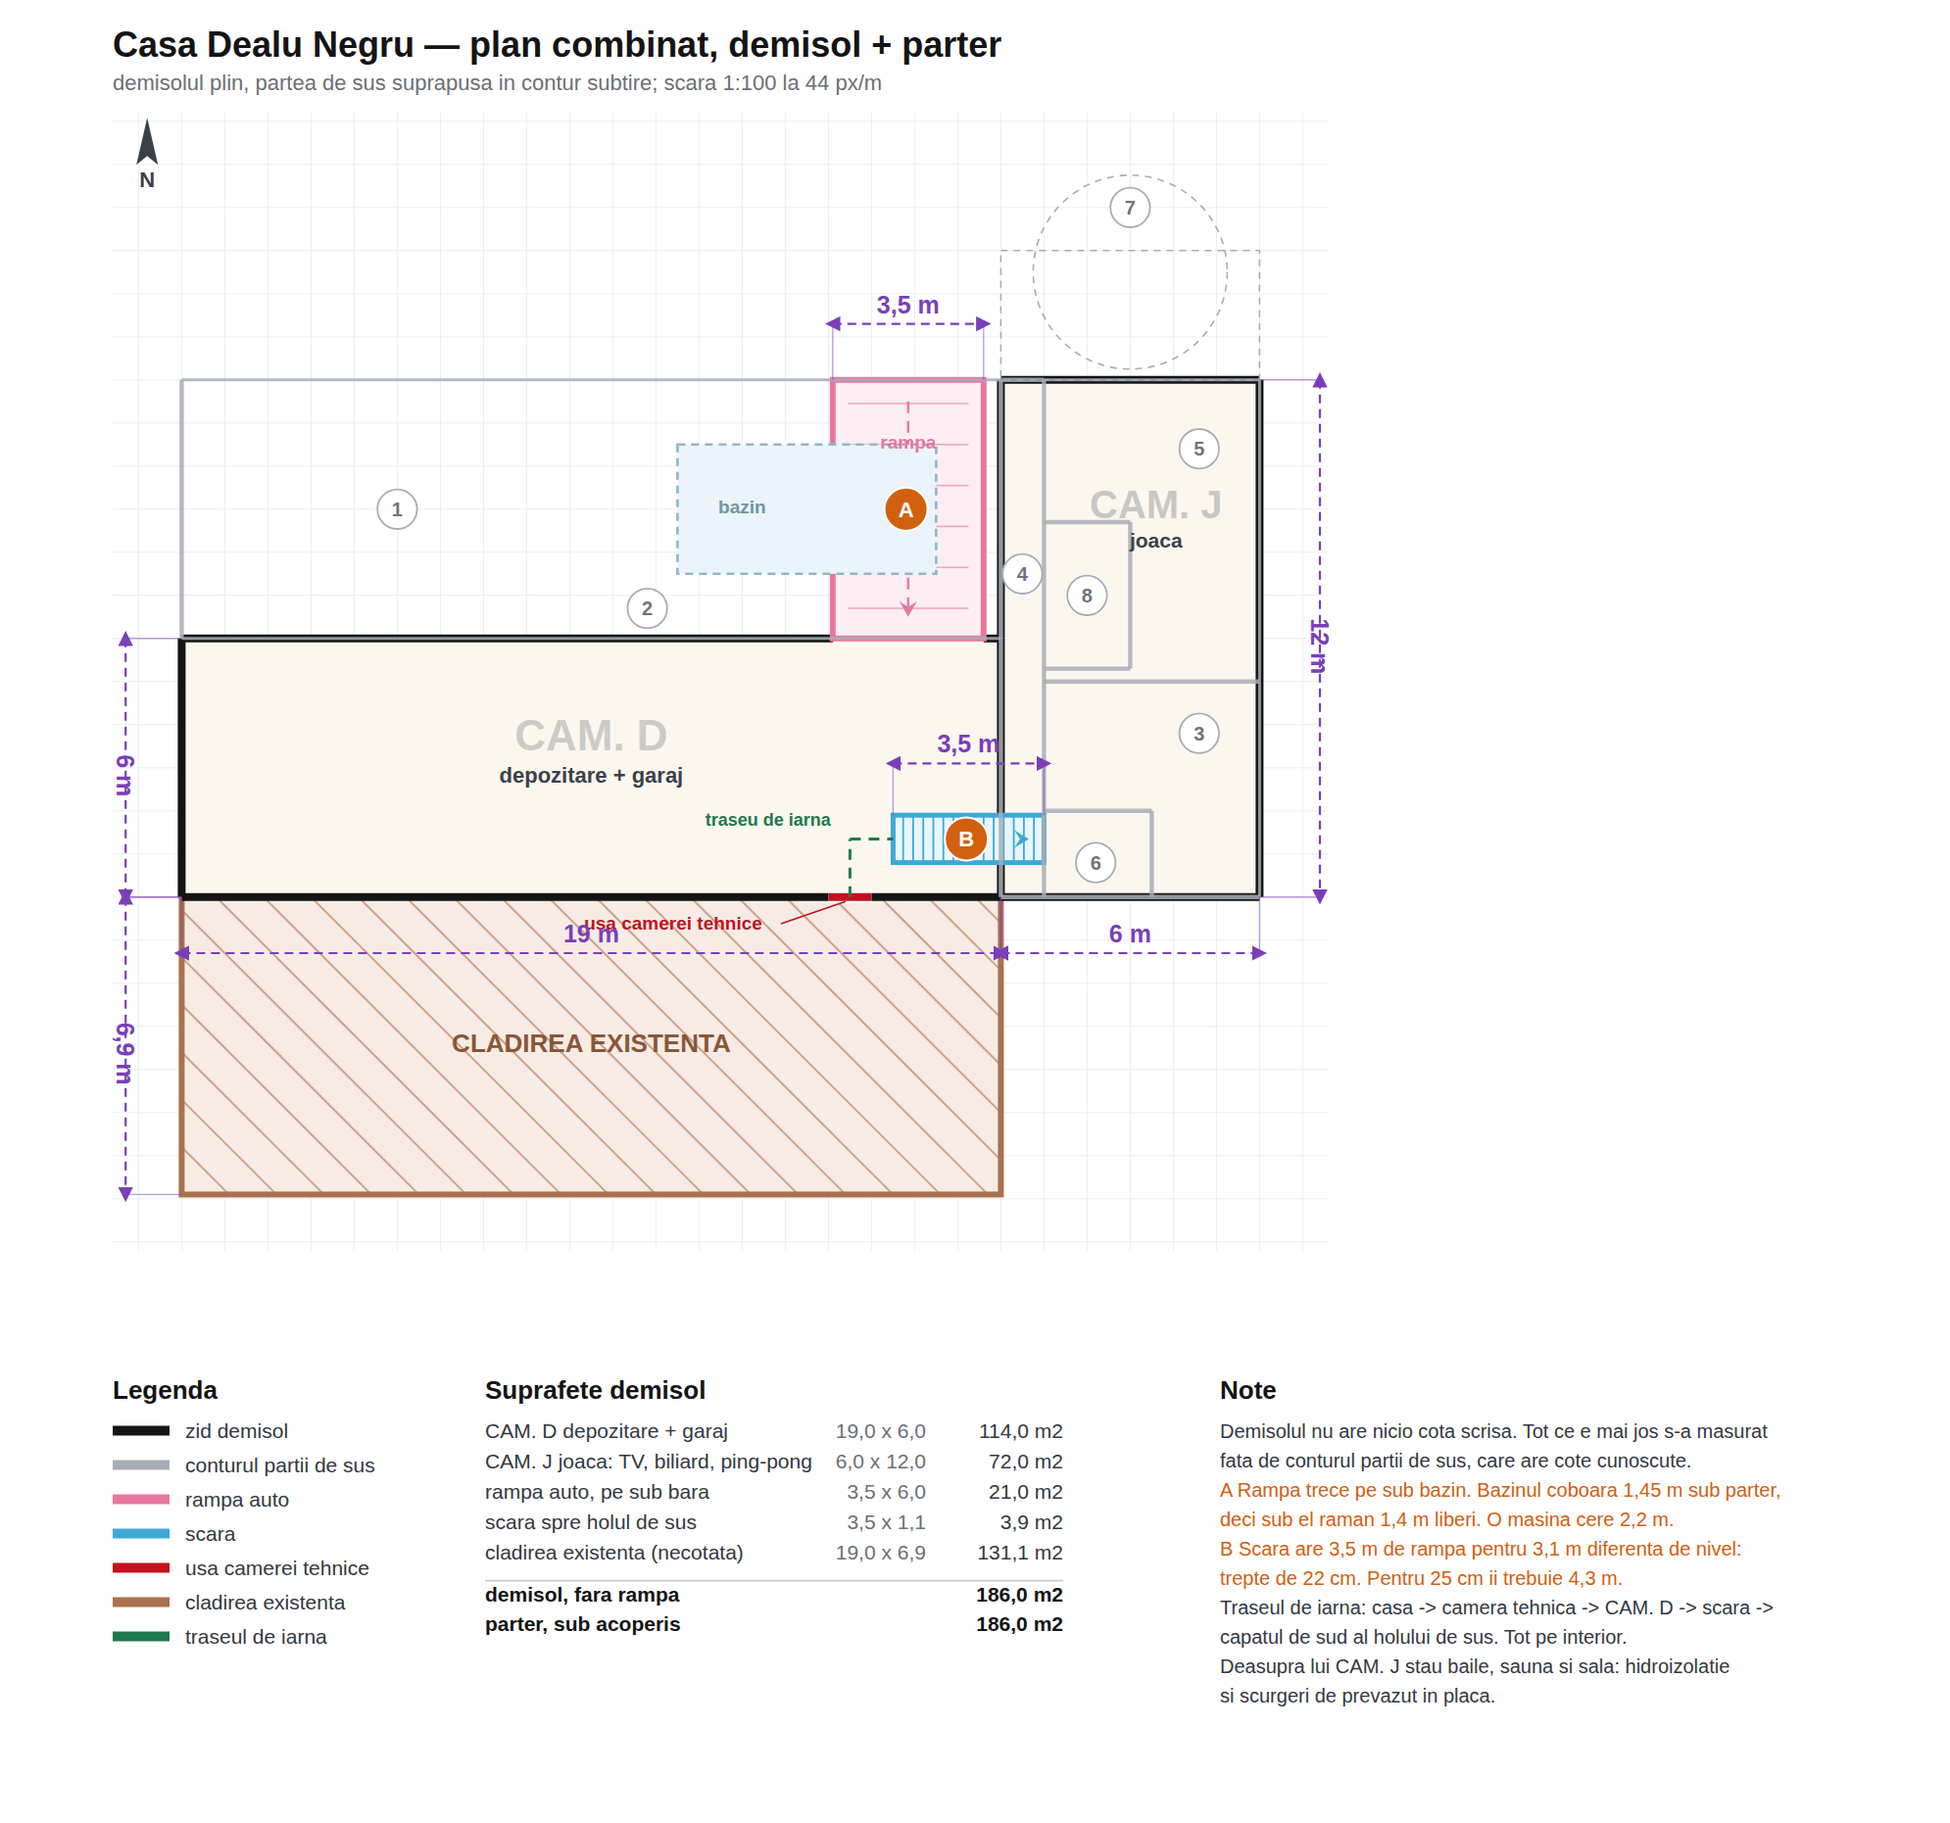
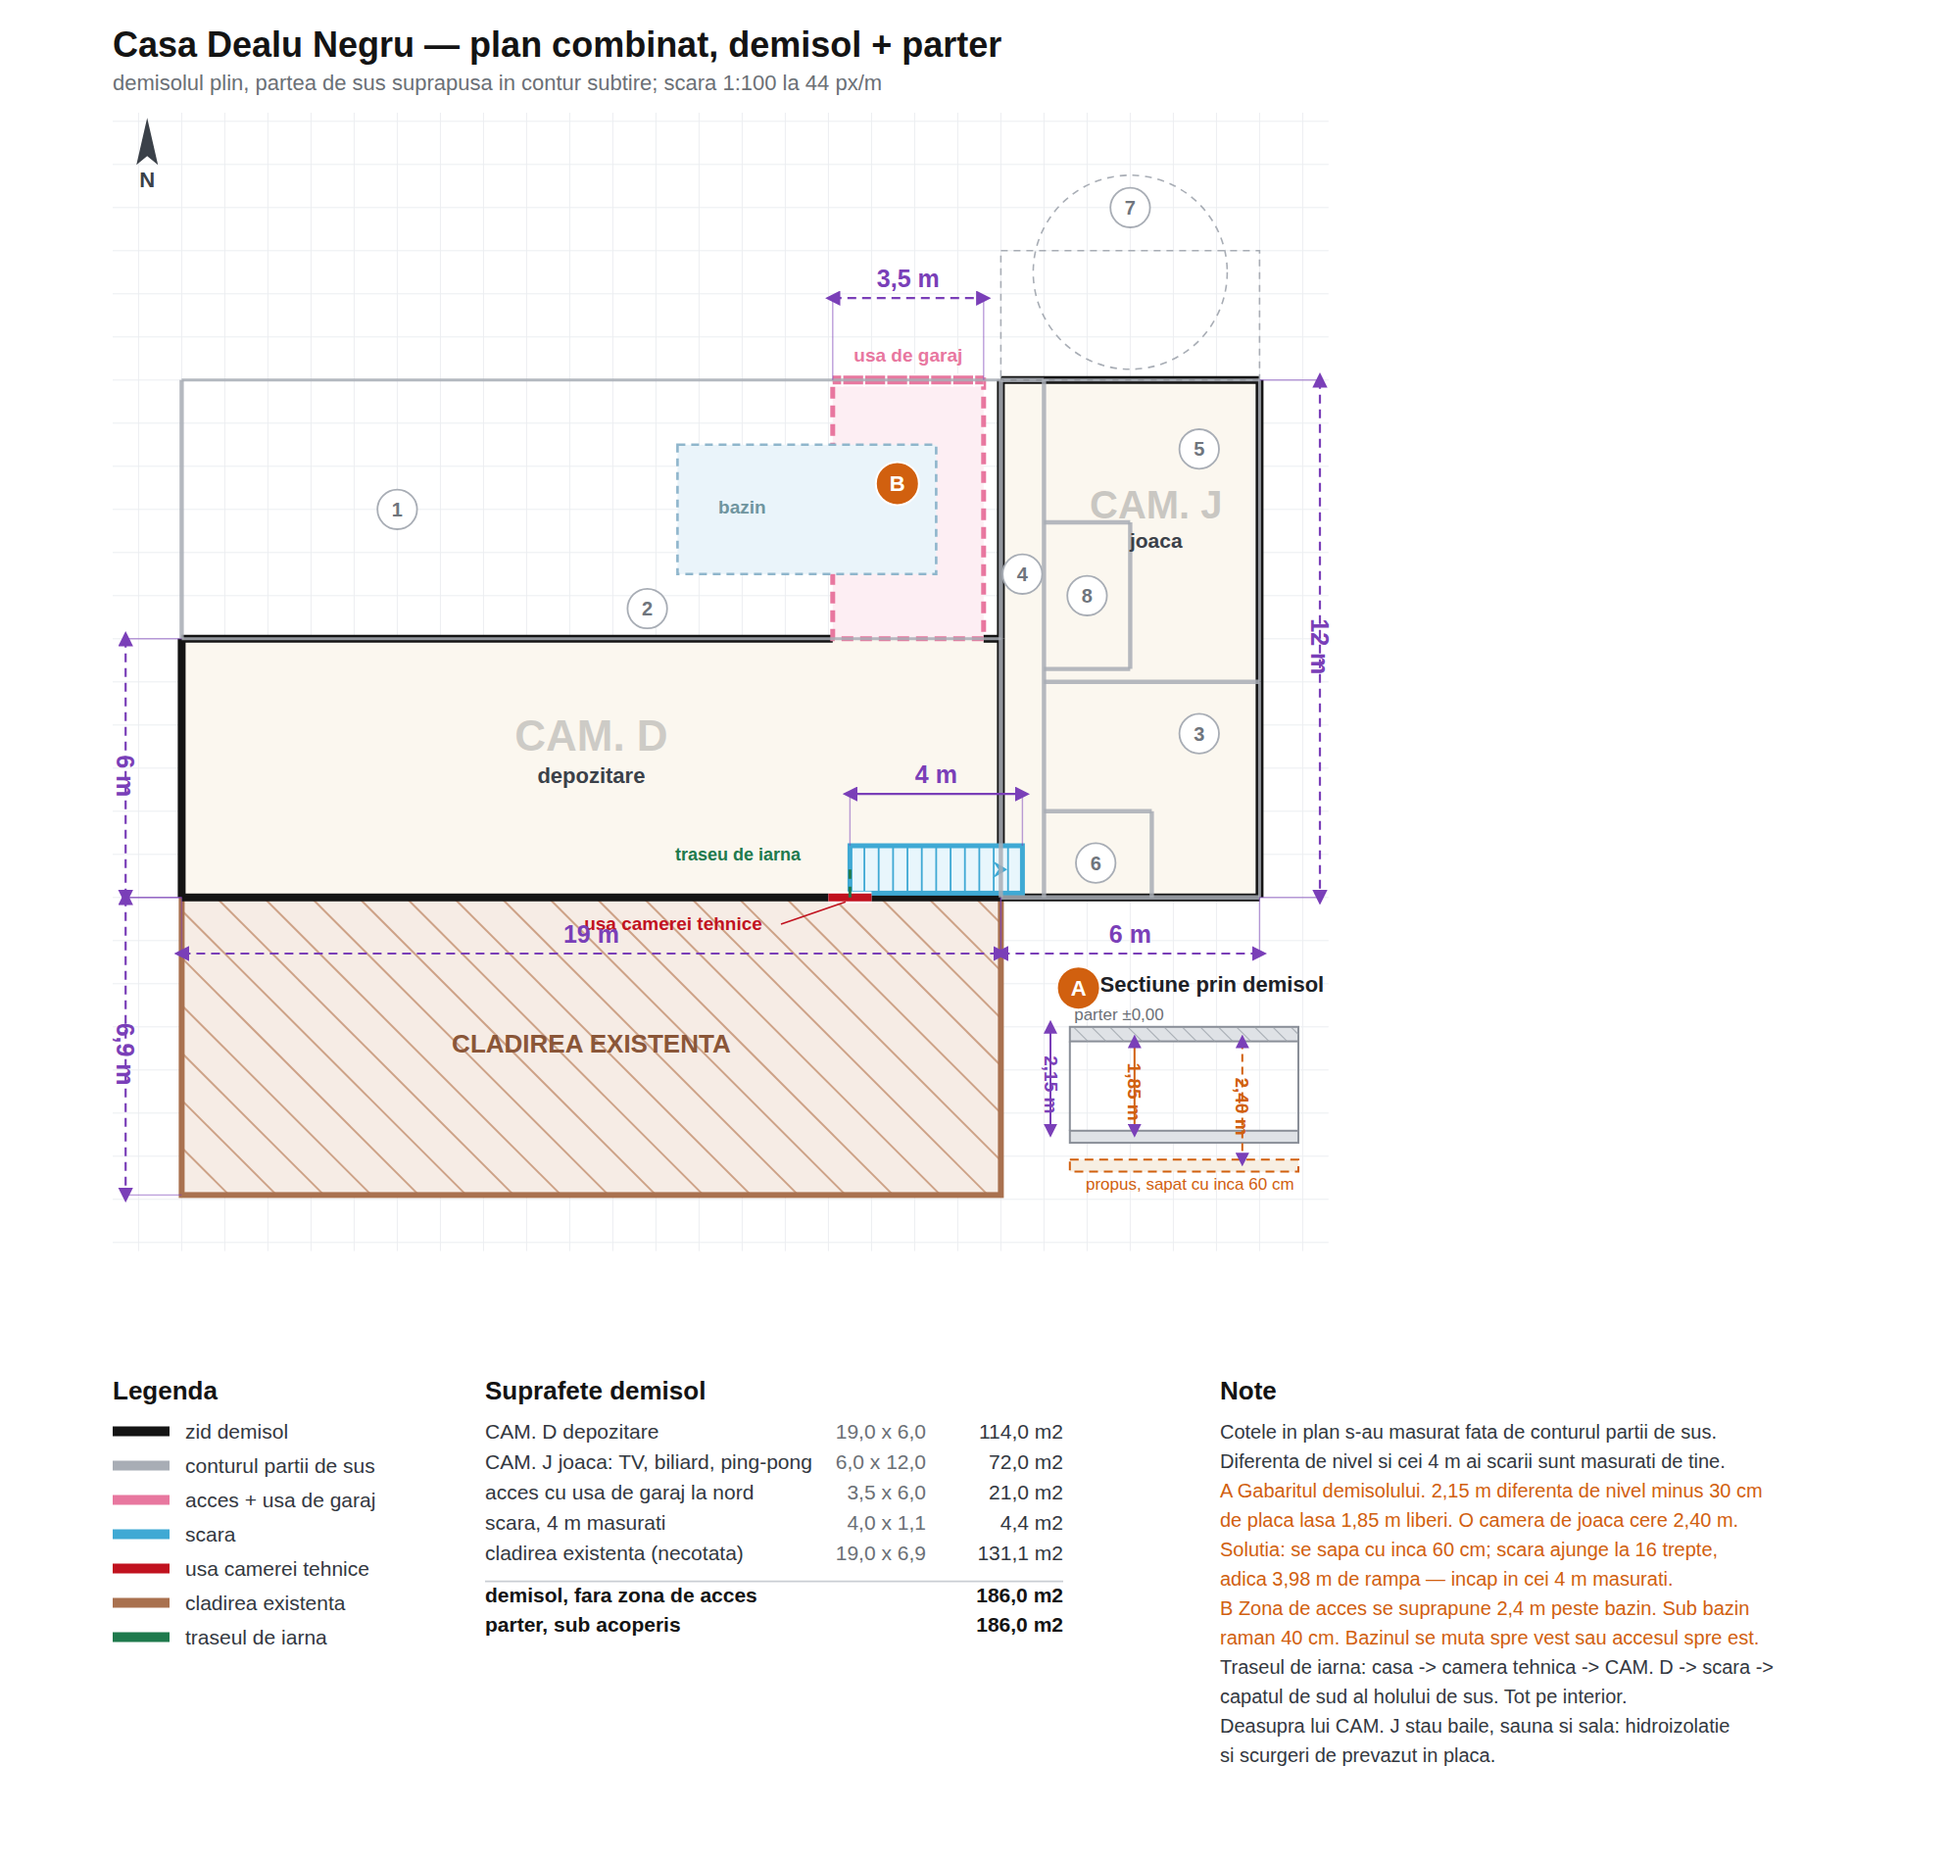
Corectii la demisol: fara rampa auto, scara de 4 m, diferenta de nivel 2,15 m
Zona roz nu mai e rampa de masina, ci acces de serviciu cu usa de garaj pe
latura de nord. Scara primeste cei 4 m masurati intre usa camerei tehnice si
hol, cu 2,15 m diferenta de nivel — la cotele astea scara nu mai e o problema.

In schimb iese gabaritul: 2,15 m minus placa de 30 cm lasa 1,85 m liberi in
demisol, sub cei 2,40 m ceruti de o camera de joaca. Planul primeste o sectiune
mica prin demisol care arata cotele si pardoseala propusa, coborata cu 60 cm;
scara ajunge atunci la 16 trepte, adica 3,98 m, care incap in cei 4 m masurati.

Claude-Session: https://claude.ai/code/session_019U6q6jWLfcY7pu9vjJmFYX

diff --git a/tools/plan_combinat.py b/tools/plan_combinat.py
@@ -25,8 +25,10 @@ import plan_compartimente as P
 
 CAMD = (0.0, 6.0, 19.0, 12.0)        # camera de depozitare, sub terasa
 CAMJ = (19.0, 0.0, 25.0, 12.0)       # camera de joaca, sub aripa
-RAMPA = (15.1, 0.0, 18.6, 6.0)       # intrarea masinii, pe sub bara
-SCARA = (16.5, 10.1, 20.0, 11.2)     # scara spre capatul holului de sus
+ACCES = (15.1, 0.0, 18.6, 6.0)       # acces de serviciu, cu usa de garaj la nord
+SCARA = (15.5, 10.8, 19.5, 11.9)     # scara: 4 m masurati de la usa tehnica
+DIF_NIVEL = 2.15                     # diferenta de nivel masurata, "2 m si un pic"
+GROS_PLACA = 0.30                    # placa parterului peste demisol
 USA_TEHNICA = (15.0, 12.0, 16.0, 12.0)
 CASA = (0.0, 12.0, 19.0, 18.9)       # cladirea existenta, necotata
 
@@ -37,7 +39,7 @@ CASA = (0.0, 12.0, 19.0, 18.9)       # cladirea existenta, necotata
 
 P.SCARA = 44.0
 P.MARGINE = 115.0
-P.LEGENDA_H = 470.0
+P.LEGENDA_H = 510.0
 P.X_MIN, P.X_MAX = -1.6, 26.6
 P.Y_MIN, P.Y_MAX = -6.2, 20.2
 P.W = max((P.X_MAX - P.X_MIN) * P.SCARA + 2 * P.MARGINE, 1990.0)
@@ -108,7 +110,7 @@ def strat_demisol():
     # pardoseli
     o.append(rect(*CAMD, fill="#fbf7ef", stroke="none"))
     o.append(rect(*CAMJ, fill="#fbf7ef", stroke="none"))
-    o.append(rect(*RAMPA, fill="#fdeef3", stroke="none"))
+    o.append(rect(*ACCES, fill="#fdeef3", stroke="none"))
     # cladirea existenta
     o.append(rect(*CASA, fill="#f6ece5", stroke="none"))
     o.extend(hasura(*CASA))
@@ -116,8 +118,8 @@ def strat_demisol():
 
     # zidurile demisolului
     z = dict(stroke=C_ZID, stroke_width="8", stroke_linecap="butt")
-    o.append(line(CAMD[0], CAMD[1], RAMPA[0], CAMD[1], **z))
-    o.append(line(RAMPA[2], CAMD[1], CAMD[2], CAMD[1], **z))
+    o.append(line(CAMD[0], CAMD[1], ACCES[0], CAMD[1], **z))
+    o.append(line(ACCES[2], CAMD[1], CAMD[2], CAMD[1], **z))
     o.append(line(CAMD[0], CAMD[1], CAMD[0], CAMD[3], **z))
     o.append(line(CAMD[0], CAMD[3], CAMD[2], CAMD[3], **z))
     o.append(line(CAMD[2], CAMD[1], CAMD[2], SCARA[1], **z))
@@ -127,22 +129,23 @@ def strat_demisol():
     o.append(line(CAMJ[0], CAMJ[3], CAMJ[2], CAMJ[3], **z))
     o.append(line(CAMJ[0], CAMJ[1], CAMJ[0], CAMD[1], **z))
 
-    # rampa auto
-    o.append(rect(*RAMPA, fill="none", stroke=C_RAMPA, stroke_width="6"))
-    xm = (RAMPA[0] + RAMPA[2]) / 2.0
-    o.append(line(xm, RAMPA[1] + 0.5, xm, RAMPA[3] - 0.5, stroke=C_RAMPA,
-                  stroke_width="2.4", stroke_dasharray="12 8"))
-    a, b = px(xm, RAMPA[3] - 0.5)
-    o.append('<path d="M %.1f %.1f l -9 -16 l 9 6 l 9 -6 z" fill="%s"/>'
-             % (a, b, C_RAMPA))
-    for k in range(6):
-        y = RAMPA[1] + 0.55 + k * 0.95
-        o.append(line(RAMPA[0] + 0.35, y, RAMPA[2] - 0.35, y, stroke=C_RAMPA,
-                      stroke_width="1.6", opacity="0.6"))
+    # zona de acces, cu usa de garaj pe latura de nord
+    o.append(rect(*ACCES, fill="none", stroke=C_RAMPA, stroke_width="5",
+                  stroke_dasharray="12 7"))
+    o.append(line(ACCES[0], ACCES[1], ACCES[2], ACCES[1], stroke="#ffffff",
+                  stroke_width="13"))
+    o.append(line(ACCES[0], ACCES[1], ACCES[2], ACCES[1], stroke=C_RAMPA,
+                  stroke_width="9"))
+    for k in range(7):
+        x = ACCES[0] + 0.22 + k * 0.51
+        o.append(line(x, ACCES[1] - 0.16, x, ACCES[1] + 0.16, stroke="#ffffff",
+                      stroke_width="2.2"))
+    o.append(text((ACCES[0] + ACCES[2]) / 2.0, ACCES[1] - 0.42,
+                  "usa de garaj", size=19, weight="600", fill=C_RAMPA))
 
     # scara
     o.append(rect(*SCARA, fill="#e8f6fc", stroke=Cs, stroke_width="5"))
-    n = 15
+    n = 12
     for k in range(1, n):
         x = SCARA[0] + k * (SCARA[2] - SCARA[0]) / n
         o.append(line(x, SCARA[1], x, SCARA[3], stroke=Cs, stroke_width="1.8"))
@@ -157,9 +160,8 @@ def strat_demisol():
     # traseul de iarna: usa tehnica -> CAM. D -> scara
     t = dict(stroke="#1f7a4d", stroke_width="3.0", stroke_dasharray="11 8",
              fill="none")
-    o.append(line(15.5, 12.0, 15.5, 10.65, **t))
-    o.append(line(15.5, 10.65, SCARA[0], 10.65, **t))
-    o.append(text(13.6, 10.35, "traseu de iarna", size=18, weight="600",
+    o.append(line(15.5, 12.0, 15.5, 11.35, **t))
+    o.append(text(12.9, 11.15, "traseu de iarna", size=18, weight="600",
                   fill="#1f7a4d"))
     return o
 
@@ -167,28 +169,84 @@ def strat_demisol():
 def note_clash():
     """Cerculetele portocalii care marcheaza cele doua ciocniri."""
     o = []
-    for nr, (cx, cy) in {"A": (16.8, 3.0), "B": (18.2, 10.65)}.items():
+    for nr, (cx, cy) in {"A": (20.8, 14.1), "B": (16.6, 2.4)}.items():
         o.append(circle(cx, cy, 0.5, fill=C_NOTA, stroke="#ffffff",
                         stroke_width="2"))
         o.append(text(cx, cy, nr, size=22, weight="700", fill="#ffffff", dy=8))
     return o
 
 
+# --------------------------------------------------------------------------
+# sectiunea mica prin demisol, desenata in coltul liber din dreapta jos
+# --------------------------------------------------------------------------
+
+SX0, SX1 = 20.6, 25.9              # latimea desenului, in unitati de plan
+SY0 = 15.0                         # cota pardoselii parterului, pe hartie
+KV = 1.12                          # unitati de plan pentru un metru real
+
+
+def _sy(h):
+    """Inaltime reala sub parter -> ordonata pe hartie."""
+    return SY0 + h * KV
+
+
+def _cota_v(x, h0, h1, eticheta, col="#7a3fb8", dash=""):
+    y0, y1 = _sy(h0), _sy(h1)
+    d = ' stroke-dasharray="8 5"' if dash else ""
+    o = ['<line x1="%.1f" y1="%.1f" x2="%.1f" y2="%.1f" stroke="%s" '
+         'stroke-width="2.0" marker-start="url(#sg)" marker-end="url(#sg)"%s/>'
+         % (px(x, y0)[0], px(x, y0)[1], px(x, y1)[0], px(x, y1)[1], col, d)]
+    o.append(text(x, (y0 + y1) / 2.0, eticheta, size=19, fill=col, weight="600",
+                  dy=6, style="writing-mode:tb;glyph-orientation-vertical:0"))
+    return o
+
+
+def sectiune_gabarit():
+    o = [text(21.3, 14.18, "Sectiune prin demisol", size=22, weight="700",
+              fill="#1d2126", anchor="start")]
+    # placa parterului
+    o.append(rect(SX0, _sy(0.0), SX1, _sy(GROS_PLACA), fill="#dfe2e6",
+                  stroke="#8a8f98", stroke_width="2.0"))
+    o.extend(hasura(SX0, _sy(0.0), SX1, _sy(GROS_PLACA), pas=0.42,
+                    col="#9aa0a8", w="1.2"))
+    o.append(text(SX0 + 0.1, _sy(0.0) - 0.16, "parter ±0,00", size=17,
+                  fill="#6b7076", anchor="start"))
+    # pardoseala demisolului, masurata
+    o.append(rect(SX0, _sy(DIF_NIVEL), SX1, _sy(DIF_NIVEL + 0.25),
+                  fill="#dfe2e6", stroke="#8a8f98", stroke_width="2.0"))
+    # pardoseala propusa, coborata
+    o.append(rect(SX0, _sy(2.75), SX1, _sy(3.0), fill="#f7efe3",
+                  stroke=C_NOTA, stroke_width="2.0", stroke_dasharray="9 6"))
+    o.append(text(SX1 - 0.1, _sy(3.0) + 0.42, "propus, sapat cu inca 60 cm",
+                  size=17, fill=C_NOTA, anchor="end"))
+    # peretii
+    for x in (SX0, SX1):
+        o.append(line(x, _sy(GROS_PLACA), x, _sy(DIF_NIVEL), stroke="#8a8f98",
+                      stroke_width="2.0"))
+    o.extend(_cota_v(SX0 - 0.45, 0.0, DIF_NIVEL, "2,15 m"))
+    o.extend(_cota_v(SX0 + 1.5, GROS_PLACA, DIF_NIVEL, "1,85 m", col=C_NOTA))
+    o.extend(_cota_v(SX1 - 1.3, GROS_PLACA, 2.75, "2,40 m", col=C_NOTA,
+                     dash=True))
+    return o
+
+
 TABEL = [
-    ("CAM. D  depozitare + garaj", "19,0 x 6,0", "114,0"),
+    ("CAM. D  depozitare", "19,0 x 6,0", "114,0"),
     ("CAM. J  joaca: TV, biliard, ping-pong", "6,0 x 12,0", "72,0"),
-    ("rampa auto, pe sub bara", "3,5 x 6,0", "21,0"),
-    ("scara spre holul de sus", "3,5 x 1,1", "3,9"),
+    ("acces cu usa de garaj la nord", "3,5 x 6,0", "21,0"),
+    ("scara, 4 m masurati", "4,0 x 1,1", "4,4"),
     ("cladirea existenta (necotata)", "19,0 x 6,9", "131,1"),
 ]
 
 NOTE = [
-    ("Demisolul nu are nicio cota scrisa. Tot ce e mai jos s-a masurat", "#33383f"),
-    ("fata de conturul partii de sus, care are cote cunoscute.", "#33383f"),
-    ("A  Rampa trece pe sub bazin. Bazinul coboara 1,45 m sub parter,", C_NOTA),
-    ("   deci sub el raman 1,4 m liberi. O masina cere 2,2 m.", C_NOTA),
-    ("B  Scara are 3,5 m de rampa pentru 3,1 m diferenta de nivel:", C_NOTA),
-    ("   trepte de 22 cm. Pentru 25 cm ii trebuie 4,3 m.", C_NOTA),
+    ("Cotele in plan s-au masurat fata de conturul partii de sus.", "#33383f"),
+    ("Diferenta de nivel si cei 4 m ai scarii sunt masurati de tine.", "#33383f"),
+    ("A  Gabaritul demisolului. 2,15 m diferenta de nivel minus 30 cm", C_NOTA),
+    ("   de placa lasa 1,85 m liberi. O camera de joaca cere 2,40 m.", C_NOTA),
+    ("   Solutia: se sapa cu inca 60 cm; scara ajunge la 16 trepte,", C_NOTA),
+    ("   adica 3,98 m de rampa — incap in cei 4 m masurati.", C_NOTA),
+    ("B  Zona de acces se suprapune 2,4 m peste bazin. Sub bazin", C_NOTA),
+    ("   raman 40 cm. Bazinul se muta spre vest sau accesul spre est.", C_NOTA),
     ("Traseul de iarna: casa -> camera tehnica -> CAM. D -> scara ->", "#33383f"),
     ("   capatul de sud al holului de sus. Tot pe interior.", "#33383f"),
     ("Deasupra lui CAM. J stau baile, sauna si sala: hidroizolatie", "#33383f"),
@@ -203,7 +261,7 @@ def legenda(y0):
     randuri = [
         (C_ZID, "zid demisol"),
         (C_SUS, "conturul partii de sus"),
-        (C_RAMPA, "rampa auto"),
+        (C_RAMPA, "acces + usa de garaj"),
         (Cs, "scara"),
         (C_USA, "usa camerei tehnice"),
         (C_CASA, "cladirea existenta"),
@@ -227,7 +285,8 @@ def legenda(y0):
     yy = y0 + 40 + len(TABEL) * 31 + 12
     out.append('<line x1="%.1f" y1="%.1f" x2="%.1f" y2="%.1f" stroke="#c9ced4" '
                'stroke-width="1.6"/>' % (x2, yy - 21, x2 + 590, yy - 21))
-    out.append(text_px(x2, yy, "demisol, fara rampa", size=21, weight="700"))
+    out.append(text_px(x2, yy, "demisol, fara zona de acces", size=21,
+                       weight="700"))
     out.append(text_px(x2 + 590, yy, "186,0 m2", size=21, weight="700",
                        anchor="end"))
     out.append(text_px(x2, yy + 30, "parter, sub acoperis", size=21,
@@ -247,8 +306,8 @@ COTE = [
     (CAMD[0], CAMD[1], CAMD[0], CAMD[3], "6 m", False, -1.3),
     (CAMJ[0], CAMJ[3], CAMJ[2], CAMJ[3], "6 m", False, 1.3),
     (CAMJ[2], CAMJ[1], CAMJ[2], CAMJ[3], "12 m", False, 1.4),
-    (RAMPA[0], 0.0, RAMPA[2], 0.0, "3,5 m", False, -1.3),
-    (SCARA[0], SCARA[1], SCARA[2], SCARA[1], "3,5 m", False, -1.2),
+    (ACCES[0], 0.0, ACCES[2], 0.0, "3,5 m", False, -1.9),
+    (SCARA[0], SCARA[1], SCARA[2], SCARA[1], "4 m", True, -1.2),
     (CASA[0], CASA[1], CASA[0], CASA[3], "6,9 m", False, -1.3),
 ]
 
@@ -274,18 +333,18 @@ def construieste_svg():
 
     o.extend(strat_demisol())
     o.extend(strat_parter())
+    o.extend(sectiune_gabarit())
     o.extend(note_clash())
 
     o.append(text(9.5, 8.6, "CAM. D", size=44, weight="700", fill="#1d2126",
                   style="opacity:0.20"))
-    o.append(text(9.5, 9.35, "depozitare + garaj", size=22, weight="600",
+    o.append(text(9.5, 9.35, "depozitare", size=22, weight="600",
                   fill="#3b4149"))
     o.append(text(22.6, 3.2, "CAM. J", size=40, weight="700", fill="#1d2126",
                   style="opacity:0.22"))
     o.append(text(22.6, 3.9, "joaca", size=21, weight="600", fill="#3b4149"))
     o.append(text(9.5, 15.6, "CLADIREA EXISTENTA", size=26, weight="700",
                   fill="#8a5638"))
-    o.append(text(16.85, 1.6, "rampa", size=19, weight="600", fill=C_RAMPA))
     o.append(text(11.4, 12.75, "usa camerei tehnice", size=19, weight="600",
                   fill=C_USA))
     o.append(line(13.9, 12.62, 15.4, 12.1, stroke=C_USA, stroke_width="1.6"))
